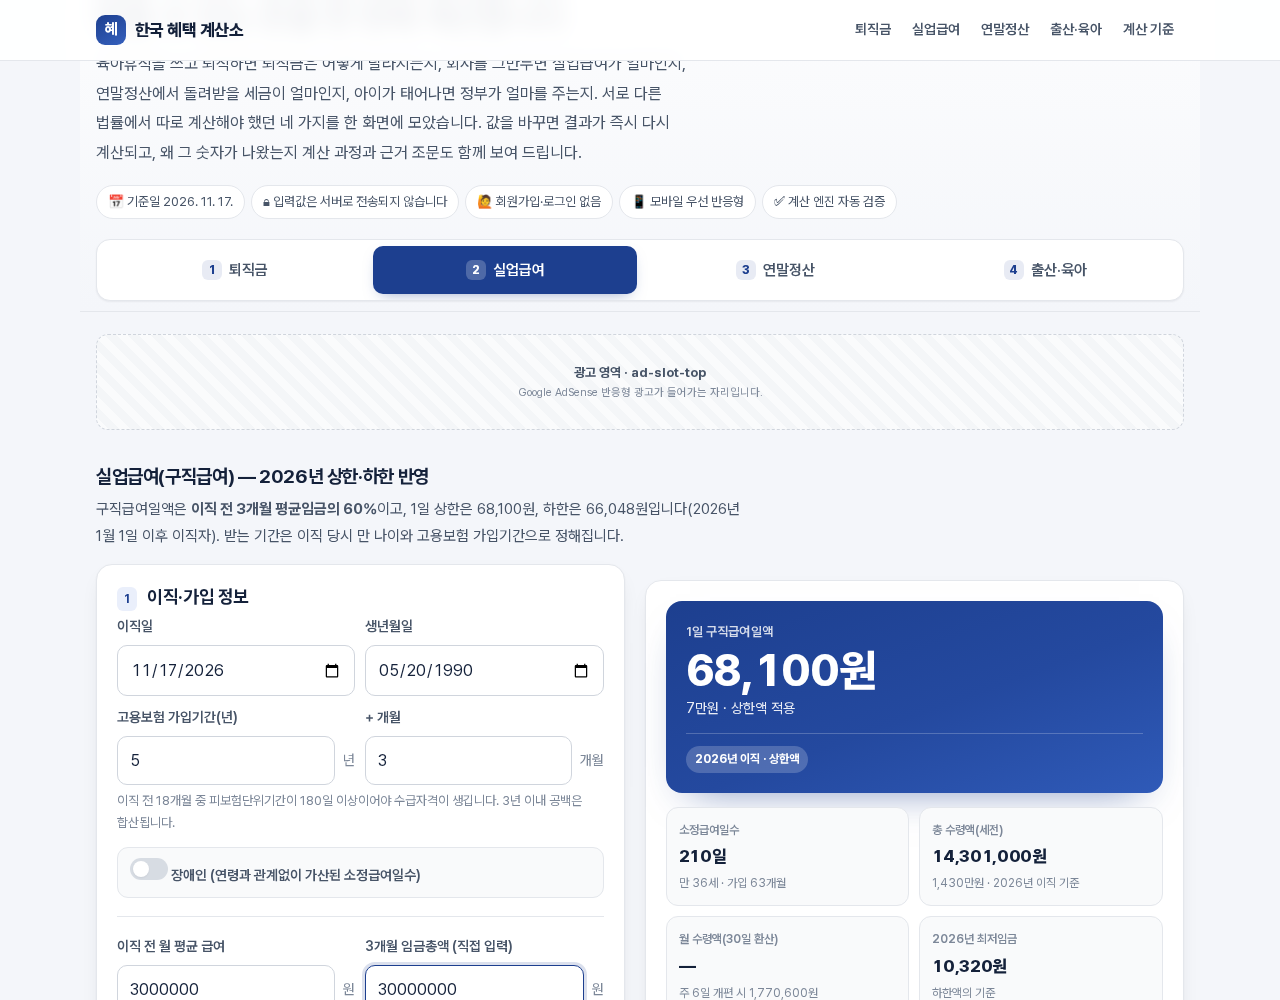
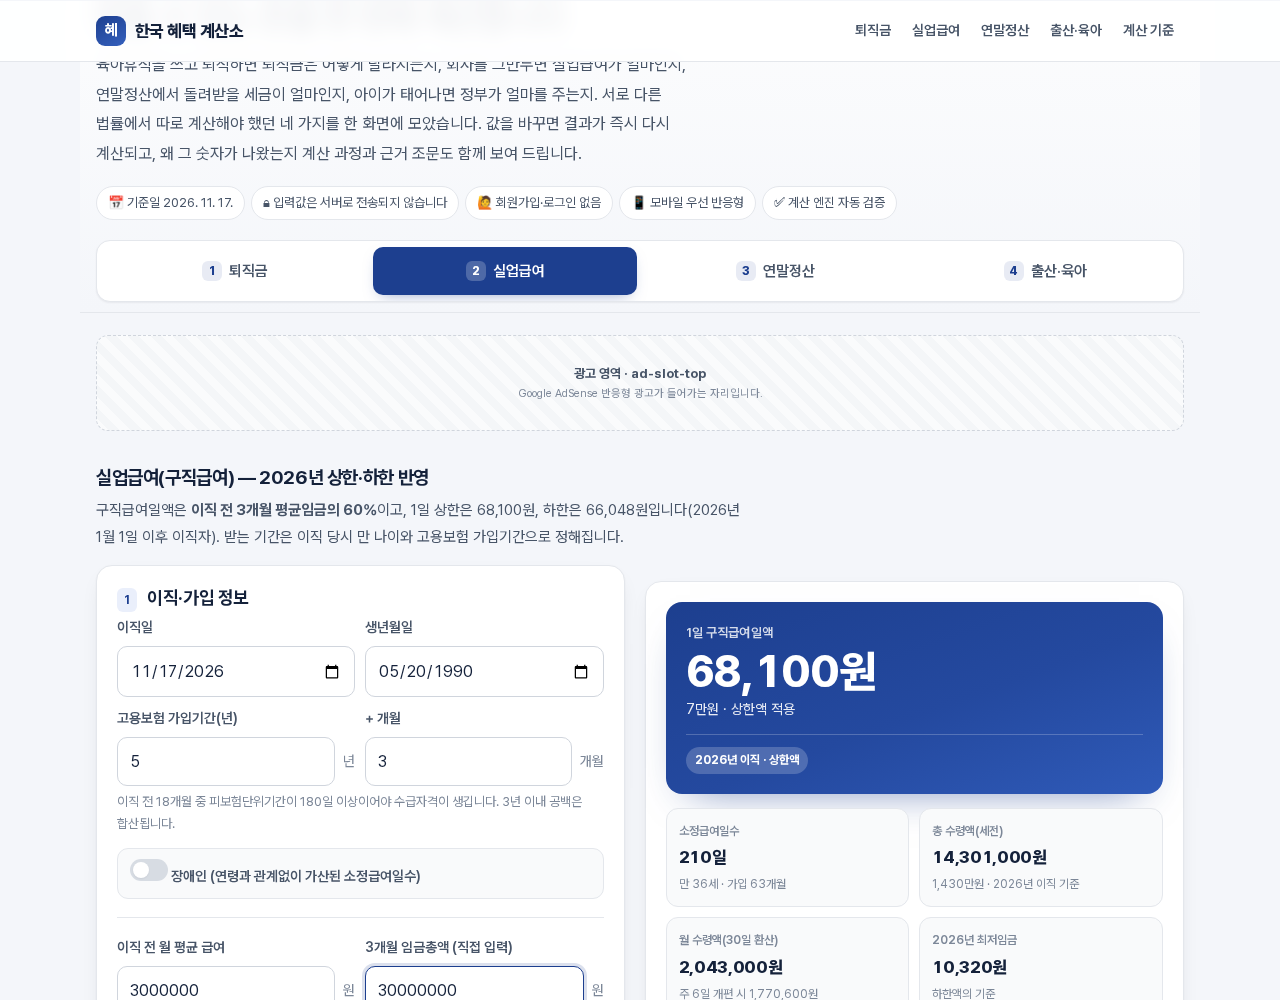
fix: 결과 KPI id 중복(ui-monthly) 해소, 참조 없는 setText 호출 정리
- 월 수령액 KPI를 ui-monthly-out으로 분리해 입력값과 충돌 제거
- 계산 과정 표로 이미 출력되는 항목의 중복 setText 삭제
- HTML id 중복 0, JS 참조 id 누락 0 확인

diff --git a/app.js b/app.js
@@ -941,9 +941,7 @@
     setText('sv-window-days', r.window ? comma(r.window.days) + '일' : '—');
     setText('sv-excluded', r.window ? comma(r.window.excluded) + '일' : '—');
     setText('sv-included', r.window ? comma(r.window.included) + '일' : '—');
-    setText('sv-wage-sum', won(r.avgSum));
     setText('sv-day-avg', won(r.dayAvg));
-    setText('sv-day-ordinary', won(r.dailyOrdinary));
     setText('sv-applied', won(r.applied));
     setText('sv-basis', r.basis);
     setText('sv-leave-days', comma(r.leaveDays) + '일');
@@ -1006,15 +1004,10 @@
     setText('ui-days', comma(r.days) + '일');
     setText('ui-total', won(r.total));
     setText('ui-total-ko', manWon(r.total) + ' · ' + r.year + '년 이직 기준');
-    setText('ui-monthly', won(r.monthly));
+    setText('ui-monthly-out', won(r.monthly));
     setText('ui-monthly6', won(r.monthly6));
     setText('ui-base', won(r.baseDaily));
     setText('ui-base-raw', won(r.baseDailyRaw));
-    setText('ui-raw60', won(r.raw60));
-    setText('ui-floor', won(r.floorPay));
-    setText('ui-cap', won(r.capPay));
-    setText('ui-floor-base', won(r.floorBase));
-    setText('ui-basecap', won(r.baseCap));
     setText('ui-age', r.age + '세');
     setText('ui-ins', r.insMonths + '개월');
     setText('ui-3m-days', r.days3m + '일');
@@ -1078,18 +1071,8 @@
     setText('ye-total-tax', won(r.totalTax));
     setText('ye-withheld', won(r.withheld));
     setText('ye-taxbase', won(r.taxBase));
-    setText('ye-earned-ded', won(r.earnedDed));
-    setText('ye-personal', won(r.personalDed));
-    setText('ye-insurance-out', won(r.insurance));
-    setText('ye-card-out', won(r.cardDeduction));
     setText('ye-calculated', won(r.calculated));
     setText('ye-credits', won(r.credits));
-    setText('ye-credit-earned', won(r.creditEarned));
-    setText('ye-credit-child', won(r.childCredit));
-    setText('ye-credit-birth', won(r.birthCredit));
-    setText('ye-credit-pension', won(r.pensionCredit));
-    setText('ye-credit-rent', won(r.rentCredit));
-    setText('ye-credit-standard', won(r.standardCredit));
     setText('ye-marginal', Math.round(r.marginalRate * 100) + '%');
     setBadge('ye-badge', '2026년 귀속 · 2027년 2월 정산', 'badge-ok');
     setBadge('ye-withheld-badge', r.withheldGiven ? '직접 입력' : '간이세액표 추정', r.withheldGiven ? 'badge-neutral' : 'badge-ok');
@@ -1156,8 +1139,6 @@
     setText('cb-reform-total', won(r.cashReform));
     setText('cb-diff', (r.reformDiff >= 0 ? '+' : '−') + manWon(Math.abs(r.reformDiff)));
     setText('cb-leave-total', won(r.leaveTotal));
-    setText('cb-leave-a', won(r.leaveA));
-    setText('cb-leave-b', won(r.leaveB));
     setText('cb-grand', won(r.applied + r.leaveTotal));
     setBadge('cb-badge', reform ? '2027.7.1 이후 출생 기준(개편안)' : '2026년 현행 기준', reform ? 'badge-neutral' : 'badge-ok');
 

diff --git a/index.html b/index.html
@@ -468,7 +468,7 @@
             </div>
             <div class="kpi">
               <div class="k-label">월 수령액(30일 환산)</div>
-              <div class="k-value" id="ui-monthly">—</div>
+              <div class="k-value" id="ui-monthly-out">—</div>
               <div class="k-sub">주 6일 개편 시 <span id="ui-monthly6">—</span></div>
             </div>
             <div class="kpi">
